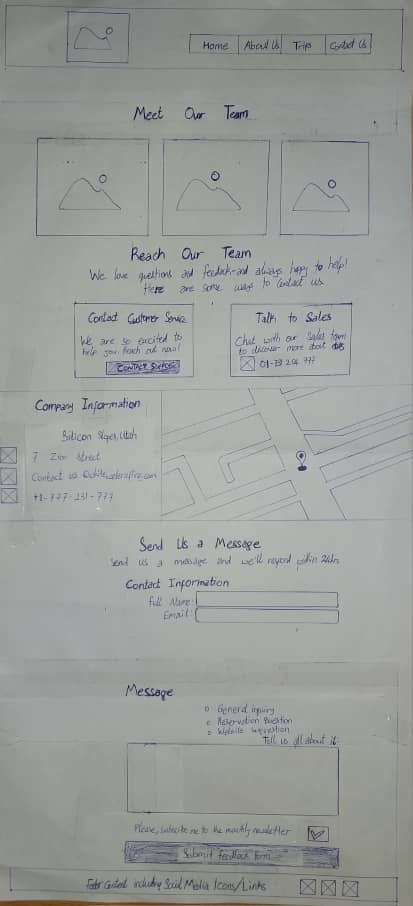
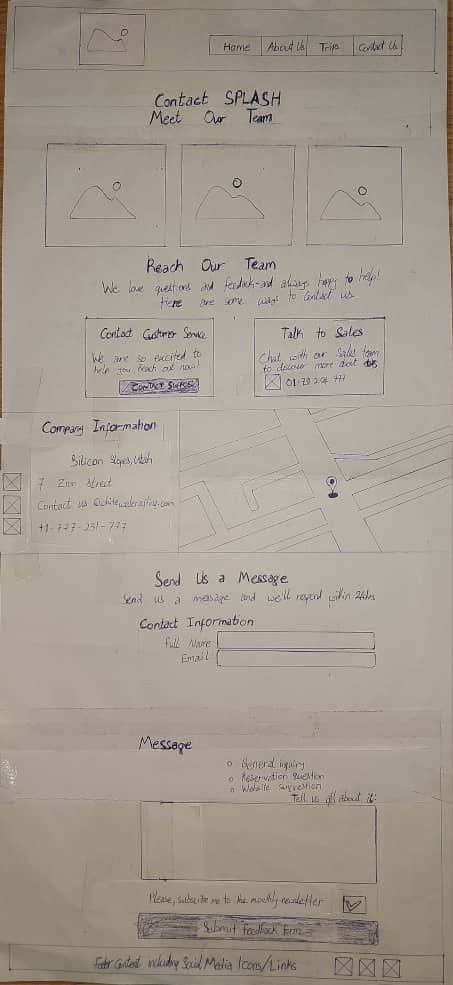
updated the image and h1

diff --git a/wwr/contact.html b/wwr/contact.html
@@ -29,7 +29,7 @@
 
         <main>
             <section>
-                <h1 class="splash-header">SPLASH WHITEWATER RAFTING</h1>
+                <h1 class="splash-header">Contact SPLASH</h1>
                 <h2>
                     Meet Our Team
                 </h2>
